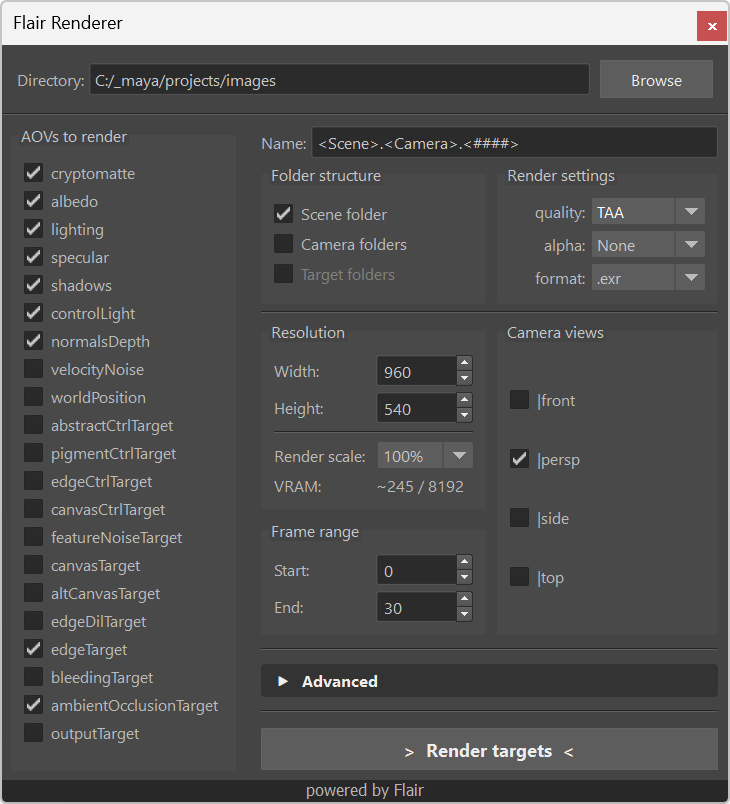
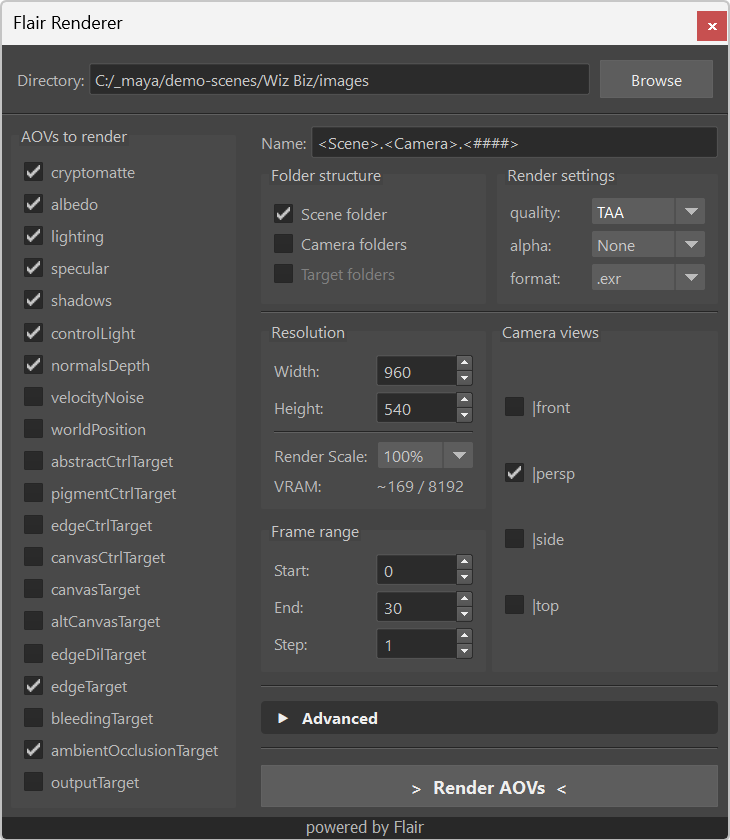
Updating content to Flair 1.1.1

diff --git a/flair/rendering/sequence.md b/flair/rendering/sequence.md
@@ -32,11 +32,11 @@ If changed, the specified path will be saved within the scene globals node and b
 ## AOVs to render
 The left section outlines all AOVs (targets) available to render. If you wish to learn exactly what data each AOV contains, please refer to the [AOV documentation](/flair/rendering/aovs/).
 
-By default, all AOVs required to replicate the shader style in compositing are pre-selected. This allows to have the same stylization in, for example, _Nuke_ and have complete freedom to push the look further in _comp_. To change the default AOVs that are pre-selected, you can modify the `maya/prefs/sequence_renderer.py` file.
+By default, all AOVs required to replicate the watercolor shader style in compositing are pre-selected. This allows to have the same stylization in, for example, _Nuke_ and have complete freedom to push the look further in _comp_. To change the default AOVs that are pre-selected, you can modify the `maya/prefs/sequence_renderer.py` file.
 
 When rendering multi-layer _*.exr_ images, the _outputTarget_ will always be rendered (it is computed anyways). You can render only the _outputTarget_ by toggling it in the list, which disables all other targets automatically.
 
-Internal render targets (all except _outputTarget_) should be exported as _.exr_ to preserve the embedded linear float data of each image.
+AOVs containing non-color data should be exported as _.exr_ to preserve the entire data contained in the AOV.
 {: .info}
 
 ## Settings
@@ -55,13 +55,17 @@ You can right click on the _line edit_ to go back to the default name, insert su
 If changed, the specified name will be saved within the scene globals node and be the same the next time the scene is opened.
 
 ### Folder structure
-The folder stucture defines the folders that will be created within the directory. By default, only a scene folder will be created. Additional folders can be created, if desired, for each camera and target that you render. When all are enabled, the hierarchy will look like this `directory/scene/camera/target/image.ext`.
+The folder stucture defines the folders that will be created within the directory. By default, only a scene folder will be created. Additional folders can be created, if desired, for each camera and target (AOV) that you render. When all are enabled, the hierarchy will look like this `directory/scene/camera/target/image.ext`.
+
+When rendering `.exr` images, the ability to render onto target folders will be disabled as all AOVs are bundled into one image file.
 
 ### Render settings 
 The render settings customizes the _quality_, _alpha_ and _format_ of the image sequence.
 * **Quality** - Defines the quality of the viewport rendering, either standard or with _TAA_.
 * **Alpha** - Defines how the alpha (transparency) is handled in the rendered frames. The options are _None_ (no alpha), _Linear_ (linear alpha) and _Premult._ (premultiplied alpha).
 * **Format** - Defines the image file format to save the image as i.e., _.png, .jpg, .exr, .tif, .iff_.
+
+When rendering the `cryptomatte` AOVs, only the `.exr` image file format will be available.
 
 ### Resolution
 The resolution defines the resolution to render with.
@@ -73,13 +77,14 @@ The resolution defines the resolution to render with.
 By default, the render resolution is grabbed from _Maya_'s [_Render Settings_](https://help.autodesk.com/view/MAYAUL/2024/ENU/?guid=GUID-59DFB8B7-776B-4243-B404-A3D602FF8CFD) and set back accordingly if changed within the Flair Renderer.
 
 ### Frame range
-The frame range defines the start and end of the sequence from the timeline, but can be set to any integer.
+The frame range sets the _Start_ and _End_ frames of the sequence to be rendered. By default, the frame range of the timeline is set.
+The _Step_ value tells Flair to render only every X frames within the frame range. 
 
 ### Camera views
 Camera views outlines the available cameras in the scene and allows you to select from which camera you want to render the sequence through. By default, all cameras set as 'renderable' in _Maya_'s [_Render Settings_](https://help.autodesk.com/view/MAYAUL/2024/ENU/?guid=GUID-59DFB8B7-776B-4243-B404-A3D602FF8CFD) will be pre-selected and changed accordingly from the Flair Renderer.
 
 ## Advaced
-The advanced settings can be toggled on-demand by clicking on them.
+The advanced settings can be toggled on-demand by clicking on it.
 
 <figure class="aio-ui">
 	<img src="/media/rendering/advanced.png" alt="The advanced Flair Renderer Settings">
@@ -87,7 +92,7 @@ The advanced settings can be toggled on-demand by clicking on them.
 </figure>
 
 ### Render each light
-Render each light will render all selected AOVs for each available light. This is useful when you want intricate lighting control in _comp_. However, make sure to only render the targets that get affected by different lights to avoid saving duplicate AOVs.
+Render each light will render selected AOVs for each available light. This is useful when you want intricate lighting control in _comp_. However, make sure to only render the targets that get affected by different lights to avoid saving duplicate AOVs.
 
 ### Apply color space
 Applies the color space of the viewport onto the rendered image. Supported color spaces are `Raw`, `sRGB gamma`, `2.2 gamma`, `Rec 709 gamma` or `1.8 gamma`. If color space is not applied, the resulting colors will be the same as in the `Raw` color space.
@@ -95,15 +100,17 @@ Applies the color space of the viewport onto the rendered image. Supported color
 When rendering the _outputTarget_, keep in mind that image formats that default to linear color representations such as _.exr_ and _.tif_ won't show the applied color space until it is set afterwards. If you don't apply the color space to them, the color space will be baked in its linear format (caution with this).
 {: .info}
 
-### Bundle AOVs in EXR
-Bundles all AOVs in a single _*.exr_ image. If you want to save each image individually, uncheck this setting.
+### Distortion control
+Toggles the distortion control for all available AOVs to the left of the AOV checkboxes. 
 
-### Make deformations visible in these targets
+<figure class="aio-ui aio-window">
+	<img src="/media/rendering/distortion.png" alt="Flair Renderer with distortion controls">
+	<figcaption>The Flair Renderer with distortion controls toggled.</figcaption>
+</figure>
 
-Distortions (deformations) will always be present in the _outputTarget_, _cryptomattes_ and the _ctrlsDepthTarget_ (within the Fray style).
+AOVs set as distorted have TAA, geo/wobble blur and other distortions applied to them. To define which AOV distortions are checked by default, you can modify the _sequence renderer preferences_: `maya/prefs/sequence_renderer.py`
 
-We want to add the ability to distort any target, but for now you can safely ignore this. A more intuitive functionality to distort AOVs will be available in future versions.
-{: .warning}
+As each AOV contains different types of data, the most suitable blending option will be applied to them. However, this can still be overwritten by forcing alpha/linear blending onto them on the _sequence renderer preferences_ or directly through the [batch rendering script](/flair/rendering/standalone/).
 
-## Render targets
-The `Render targets` button will start rendering the target sequence with the settings you specified. You can cancel the sequence render anytime by hitting on `cancel` within the render progress dialog.
+## Render AOVs
+The `Render AOVs` button will start rendering the target sequence with the settings you specified. You can cancel the sequence render anytime by hitting on `cancel` within the render progress dialog.

diff --git a/flair/rendering/standalone.md b/flair/rendering/standalone.md
@@ -33,24 +33,28 @@ The usage of standalone rendering in Flair will depend a lot on what is being se
 In a nutshell, the `flair_batch.py` file will run on the scene you open through Maya batch with either the arguments you initialize the Flair `Renderer` class with, or whatever has been saved in the opened scene.
 
 ``` python
-# initialize the renderer (check flair_render.py for full list of options)
-renderer = fr.Renderer(name="<Scene>.<Camera>.<####>",  # tag options: <Scene>, <Camera>, <Target>, <RenderLayer>, <####> (empty: grab _sequenceName global)
-                       directory="",  # a specific directory to render onto, (empty: grab _sequenceDir global or "project/images")
+# initialize the renderer
+# check flair_render.py for full list of options
+renderer = fr.Renderer(name = "<Scene>.<Camera>.<####>",  # tag options: <Scene>, <Camera>, <Target>, <RenderLayer>, <####> (empty: grab _sequenceName global)
+                       directory = "",  # a specific directory to render onto, (empty: grab _sequenceDir global or "project/images")
                        sequence = True,  # if a sequence or an individual frame
-                       frame_range=[],  # entire playback range of scene if left empty
-                       targets=["albedo", "outputTarget"],
-                       cryptomatte=True,
-                       resolution=[1920, 1080],
-                       taa=True,
-                       render_scale=1.0,  # options: "1.0", "1.5", "2.0"
-                       alpha="Premult.",  # options: "None", "Linear", "Premult."
-                       img_format=".exr",  # options: ".png", ".jpg", ".exr", ".tiff", ".iff"
-                       cameras=["|shotcam_rig|shotcam_h"],  # all renderable cameras of the scene if left empty
-                       each_light=False,  # if each light should be rendered separately
-                       bundle_aovs=True)  # if the aovs should be bundled into one (only applies to ".exr")
+                       frame_range = [],  # entire playback range of scene if left empty
+                       frame_step = 1,  # render only every X frames
+                       targets = ["albedo", "outputTarget"],  # AOVs to render
+                       targets_to_distort = ["outputTarget"],  # AOVs to distort (TAA, canvas disitortion, etc)
+                       force_distortion_blending = [],  # AOVs to force distortion blending onto
+                       cryptomatte = True,  # if cryptomattes should be rendered
+                       taa = True,  # if TAA should be enabled
+                       resolution = [1920, 1080],
+                       render_scale = 1.0,  # options: "1.0", "1.5", "2.0"
+                       alpha = "Premult.",  # options: "None", "Linear", "Premult."
+                       img_format = ".exr",  # options: ".png", ".jpg", ".exr", ".tiff", ".iff"
+                       cameras = ["|shotcam"],  # all renderable cameras of the scene if left empty
+                       each_light = False,  # if each light should be rendered separately
+                       )
 ```
 
-After initialization, the `flair_batch.py` will then render with everthing that has been specified when opened together with the desired Maya scene file in batch, as follows.
+After initialization, the `flair_batch.py` will then render with everything that has been specified when opened together with the desired Maya scene file in batch, as follows.
 
 ### Windows:    
 #### Powershell

diff --git a/flair/styles/library/warp.md b/flair/styles/library/warp.md
@@ -46,7 +46,7 @@ The _warp_ shader style, similar to the [_fray_ shader style](/flair/styles/libr
 
 The broken edges from the warp shader style are generated by rendering a separate inflated 3D noise for each object. This noise is fractalized so that the broken edges retain the same pixel size, no matter how close/far the object is from the camera. Finally, the fractalized noise distorts the image to achieve the warped look. Individual meshes can be excluded entirely from the noise calculations by toggling the noise instances using the [Flair Toolbox](/flair/toolbox).
 
-This shader style depends on the [Flair material](/flair/materials/flair-shader), which can be assigned onto any mesh object. The material embeds painterly reflectance models and supports the art-direction framework of Flair. The material also contains a	 `Animated` setting attribute, which allows to attach the broken edges to animated objects.
+This shader style works on any Maya material, even with VertexFX art-direction on the warp amplitude and feathering. However using the [Flair material](/flair/materials/flair-shader) unlocks painterly reflectance models and supports the entire art-direction framework of Flair. The material also contains a `Animated` setting attribute, which allows to attach the broken edges to animated objects. This can also be achieved on other materials using the [Warp Settings](#warp-settings).
 
 While production-proven, the warp shader style may not have all features that you need. So please let us know if [we can help](https://artineering.io/agency) polish the look exactly to your requirements and pipeline.
 
@@ -119,7 +119,7 @@ The Warp settings allow additional functionality for the Warp shader style. The 
 This button will toggle the inflated instance on the selected objects on/off. Especially useful for transparent objects, so that only objects behind warp the end result.
 
 ### Bake effect positions on selected
-This button is a convenience function that will check the `Animated` setting attribute on materials where the selected objects have been assigned into.
+On Flair materials, this button is a convenience function that will check the `Animated` setting attribute on materials where the selected objects have been assigned into. With non-Flair materials, this is the **only way** to attach the warp distortions to animated objects.
 
 ------------------------
 ------------------------

diff --git a/flair/api.md b/flair/api.md
@@ -93,7 +93,7 @@ By default, different blending modes are applied depending on the type of data w
 
 This flag can be used to override target-specific blending behavior and force alpha blending onto it. 
 
-> Note: This flag will only apply if the target is also set to distort using the _targetsToDistort_ flag.
+> Note: This flag will only work when set together with the _targetsToDistort_ flag.
 
 
 <div class="maya-api-flag" markdown="1">
@@ -216,6 +216,15 @@ bool
 C
 </div>
 Returns the version of Flair.
+
+
+<div class="maya-api-flag" markdown="1">
+#### vram (vrm)
+bool
+
+C
+</div>
+Returns the amount of video ram currently in use by Flair.
 
 
 </div>
